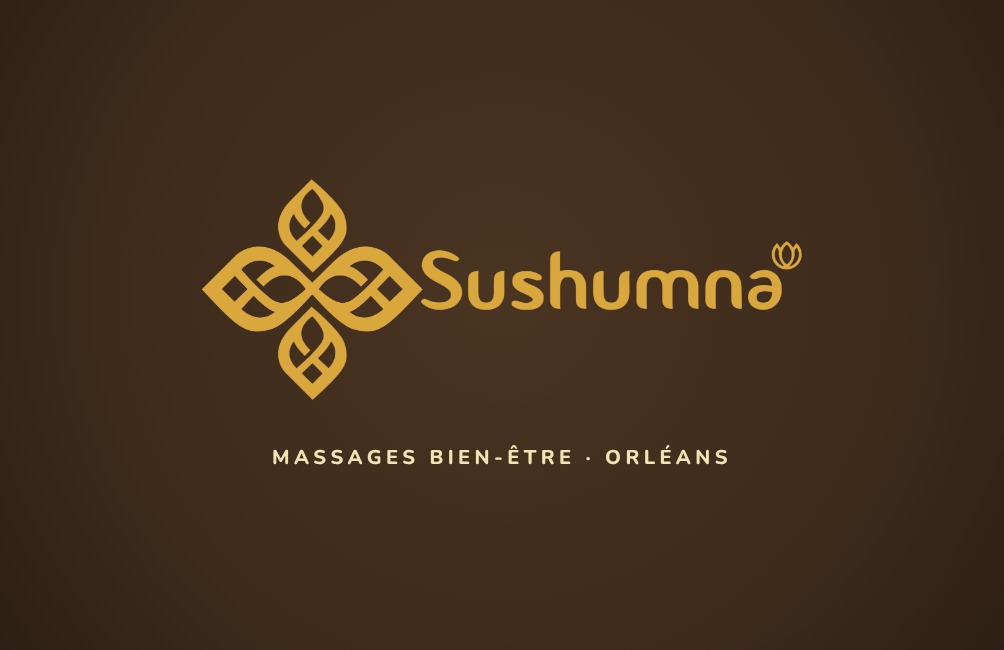
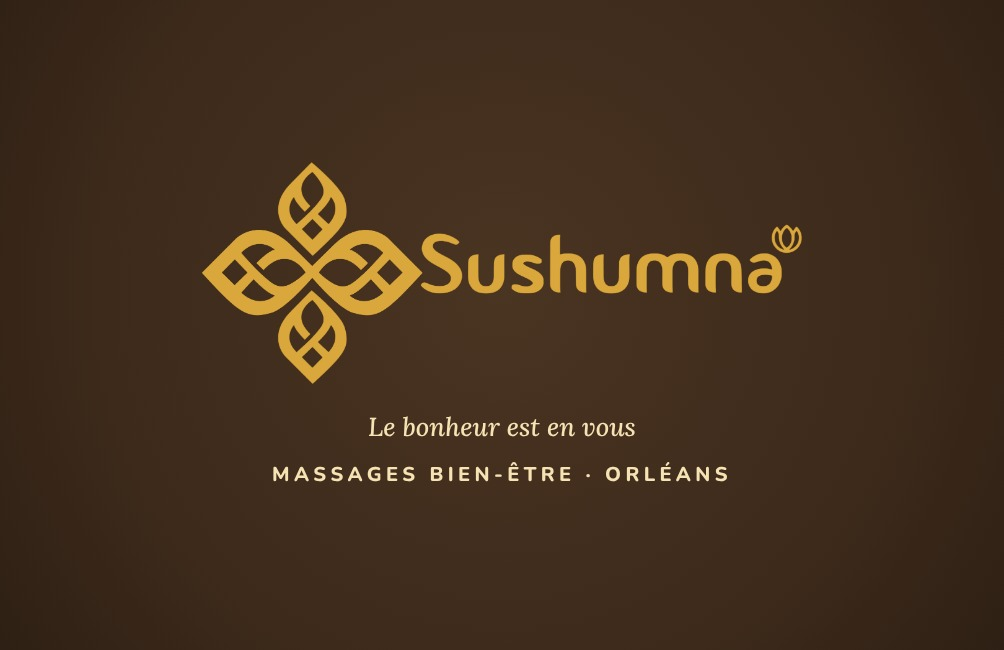
Cartes de visite : verso revenu à la version d'origine, slogan sur le recto
Claude-Session: https://claude.ai/code/session_01FhKW6d7NffjTyYvYf6zG3G

Changed region(s): [[0.1853, 0.2462, 0.8028, 0.6154], [0.247, 0.6462, 0.741, 0.7385]]

diff --git a/graphisme/generer.js b/graphisme/generer.js
@@ -123,10 +123,12 @@ PAGES.push({
   nom: '04-carte-visite-recto', w: 1004, h: 650, echelle: 1,
   html: document_({ w: 1004, h: 650,
     css: `.page{background:radial-gradient(circle at 50% 45%,#4a3422 0,var(--brun) 65%,#2e2014 100%)}
-.surtitre{color:var(--or-clair);font-size:20px}`,
+.surtitre{color:var(--or-clair);font-size:20px}
+.slogan{margin:26px 0 0;font-family:var(--titres);font-style:italic;font-size:26px;color:var(--or-clair)}`,
     body: `<div class="page">
   <img src="../assets/logo-hd-or.png" alt="Sushumna" style="width:600px;height:auto">
-  <p class="surtitre" style="margin-top:44px">Massages bien-être · Orléans</p>
+  <p class="slogan">Le bonheur est en vous</p>
+  <p class="surtitre" style="margin-top:18px">Massages bien-être · Orléans</p>
 </div>` }),
 });
 
@@ -134,22 +136,22 @@ PAGES.push({
 PAGES.push({
   nom: '05-carte-visite-verso', w: 1004, h: 650, echelle: 1,
   html: document_({ w: 1004, h: 650,
-    css: `.page{justify-content:space-between;align-items:stretch;text-align:left;padding:60px 78px;background:var(--creme)}
-.haut{display:flex;flex-direction:column;align-items:flex-start;gap:22px}
-.slogan{margin:0;font-family:var(--titres);font-style:italic;font-size:34px;color:var(--or-texte)}
-.logo{width:420px;height:auto;align-self:flex-start}
-.nom{margin:0;font-family:var(--titres);font-weight:600;font-size:46px;line-height:1.1;color:var(--brun)}
-.role{margin:6px 0 0;font-family:var(--titres);font-style:italic;font-size:26px;color:var(--or-texte)}
-.bas{display:flex;justify-content:space-between;align-items:flex-end;gap:40px;border-top:2px solid var(--bordure);padding-top:26px}
+    css: `.page{justify-content:space-between;align-items:stretch;text-align:left;padding:70px 78px;background:var(--creme)}
+.haut p{margin:0}
+.nom{font-family:var(--titres);font-weight:600;font-size:66px;line-height:1.1;color:var(--brun)}
+.role{font-family:var(--titres);font-style:italic;font-size:32px;color:var(--or-texte);margin-top:10px}
 .contacts{display:flex;flex-direction:column;gap:14px;font-size:27px;font-weight:700;color:var(--brun)}
 .contacts div{display:flex;align-items:center;gap:20px}
 .contacts .ico{width:30px;height:30px}
+.marque{position:absolute;right:70px;top:70px;width:200px;opacity:1}
+.bas{display:flex;justify-content:space-between;align-items:flex-end;gap:40px;border-top:2px solid var(--bordure);padding-top:26px}
 .qr{display:flex;flex-direction:column;align-items:center;gap:8px;flex:none}
 .qr img{width:160px;height:auto}
 .qr span{font-size:19px;font-weight:800;letter-spacing:.12em;text-transform:uppercase;color:var(--or-texte)}`,
-    body: `<div class="haut">
-  <img class="logo" src="../assets/logo-hd.png" alt="Sushumna">
-  <p class="slogan">Le bonheur est en vous</p>
+    body: `<img class="marque" src="../assets/embleme-hd.png" alt="">
+<div class="haut">
+  <p class="nom">Maxence Vaz</p>
+  <p class="role">Massages bien-être</p>
 </div>
 <div class="bas">
   <div class="contacts">

diff --git a/graphisme/sources/05-carte-visite-verso.html b/graphisme/sources/05-carte-visite-verso.html
@@ -19,16 +19,15 @@ body{width:var(--w);height:var(--h);overflow:hidden;background:var(--creme);colo
 .surtitre{margin:0;font-weight:800;text-transform:uppercase;letter-spacing:.22em;color:var(--or-texte)}
 .etoiles{margin:0;color:#b9801a;letter-spacing:.14em}
 .sous{margin:0;color:var(--brun-doux)}
-.page{justify-content:space-between;align-items:stretch;text-align:left;padding:60px 78px;background:var(--creme)}
-.haut{display:flex;flex-direction:column;align-items:flex-start;gap:22px}
-.slogan{margin:0;font-family:var(--titres);font-style:italic;font-size:34px;color:var(--or-texte)}
-.logo{width:420px;height:auto;align-self:flex-start}
-.nom{margin:0;font-family:var(--titres);font-weight:600;font-size:46px;line-height:1.1;color:var(--brun)}
-.role{margin:6px 0 0;font-family:var(--titres);font-style:italic;font-size:26px;color:var(--or-texte)}
-.bas{display:flex;justify-content:space-between;align-items:flex-end;gap:40px;border-top:2px solid var(--bordure);padding-top:26px}
+.page{justify-content:space-between;align-items:stretch;text-align:left;padding:70px 78px;background:var(--creme)}
+.haut p{margin:0}
+.nom{font-family:var(--titres);font-weight:600;font-size:66px;line-height:1.1;color:var(--brun)}
+.role{font-family:var(--titres);font-style:italic;font-size:32px;color:var(--or-texte);margin-top:10px}
 .contacts{display:flex;flex-direction:column;gap:14px;font-size:27px;font-weight:700;color:var(--brun)}
 .contacts div{display:flex;align-items:center;gap:20px}
 .contacts .ico{width:30px;height:30px}
+.marque{position:absolute;right:70px;top:70px;width:200px;opacity:1}
+.bas{display:flex;justify-content:space-between;align-items:flex-end;gap:40px;border-top:2px solid var(--bordure);padding-top:26px}
 .qr{display:flex;flex-direction:column;align-items:center;gap:8px;flex:none}
 .qr img{width:160px;height:auto}
 .qr span{font-size:19px;font-weight:800;letter-spacing:.12em;text-transform:uppercase;color:var(--or-texte)}</style>
@@ -50,9 +49,10 @@ body{width:var(--w);height:var(--h);overflow:hidden;background:var(--creme);colo
   <symbol id="feuille" viewBox="0 0 24 24"><g fill="none" stroke="currentColor" stroke-width="2" stroke-linecap="round" stroke-linejoin="round"><path d="M11 20A7 7 0 0 1 9.8 6.1C15.5 5 17 4.5 19 2c1 2 2 4.2 2 8 0 5.5-4.8 10-10 10z"/><path d="M2 21c0-3 1.9-5.4 5.1-6C9.5 14.5 12 13 13 12"/></g></symbol>
   <symbol id="discussion" viewBox="0 0 24 24"><path fill="none" stroke="currentColor" stroke-width="2" stroke-linecap="round" stroke-linejoin="round" d="M21 15a2 2 0 0 1-2 2H7l-4 4V5a2 2 0 0 1 2-2h14a2 2 0 0 1 2 2z"/></symbol>
 </svg>
-<div class="page"><div class="haut">
-  <img class="logo" src="../assets/logo-hd.png" alt="Sushumna">
-  <p class="slogan">Le bonheur est en vous</p>
+<div class="page"><img class="marque" src="../assets/embleme-hd.png" alt="">
+<div class="haut">
+  <p class="nom">Maxence Vaz</p>
+  <p class="role">Massages bien-être</p>
 </div>
 <div class="bas">
   <div class="contacts">

diff --git a/graphisme/sources/04-carte-visite-recto.html b/graphisme/sources/04-carte-visite-recto.html
@@ -20,7 +20,8 @@ body{width:var(--w);height:var(--h);overflow:hidden;background:var(--creme);colo
 .etoiles{margin:0;color:#b9801a;letter-spacing:.14em}
 .sous{margin:0;color:var(--brun-doux)}
 .page{background:radial-gradient(circle at 50% 45%,#4a3422 0,var(--brun) 65%,#2e2014 100%)}
-.surtitre{color:var(--or-clair);font-size:20px}</style>
+.surtitre{color:var(--or-clair);font-size:20px}
+.slogan{margin:26px 0 0;font-family:var(--titres);font-style:italic;font-size:26px;color:var(--or-clair)}</style>
 </head>
 <body style="--w:1004px;--h:650px">
 <svg width="0" height="0" style="position:absolute" aria-hidden="true">
@@ -41,7 +42,8 @@ body{width:var(--w);height:var(--h);overflow:hidden;background:var(--creme);colo
 </svg>
 <div class="page">
   <img src="../assets/logo-hd-or.png" alt="Sushumna" style="width:600px;height:auto">
-  <p class="surtitre" style="margin-top:44px">Massages bien-être · Orléans</p>
+  <p class="slogan">Le bonheur est en vous</p>
+  <p class="surtitre" style="margin-top:18px">Massages bien-être · Orléans</p>
 </div>
 </body>
 </html>
